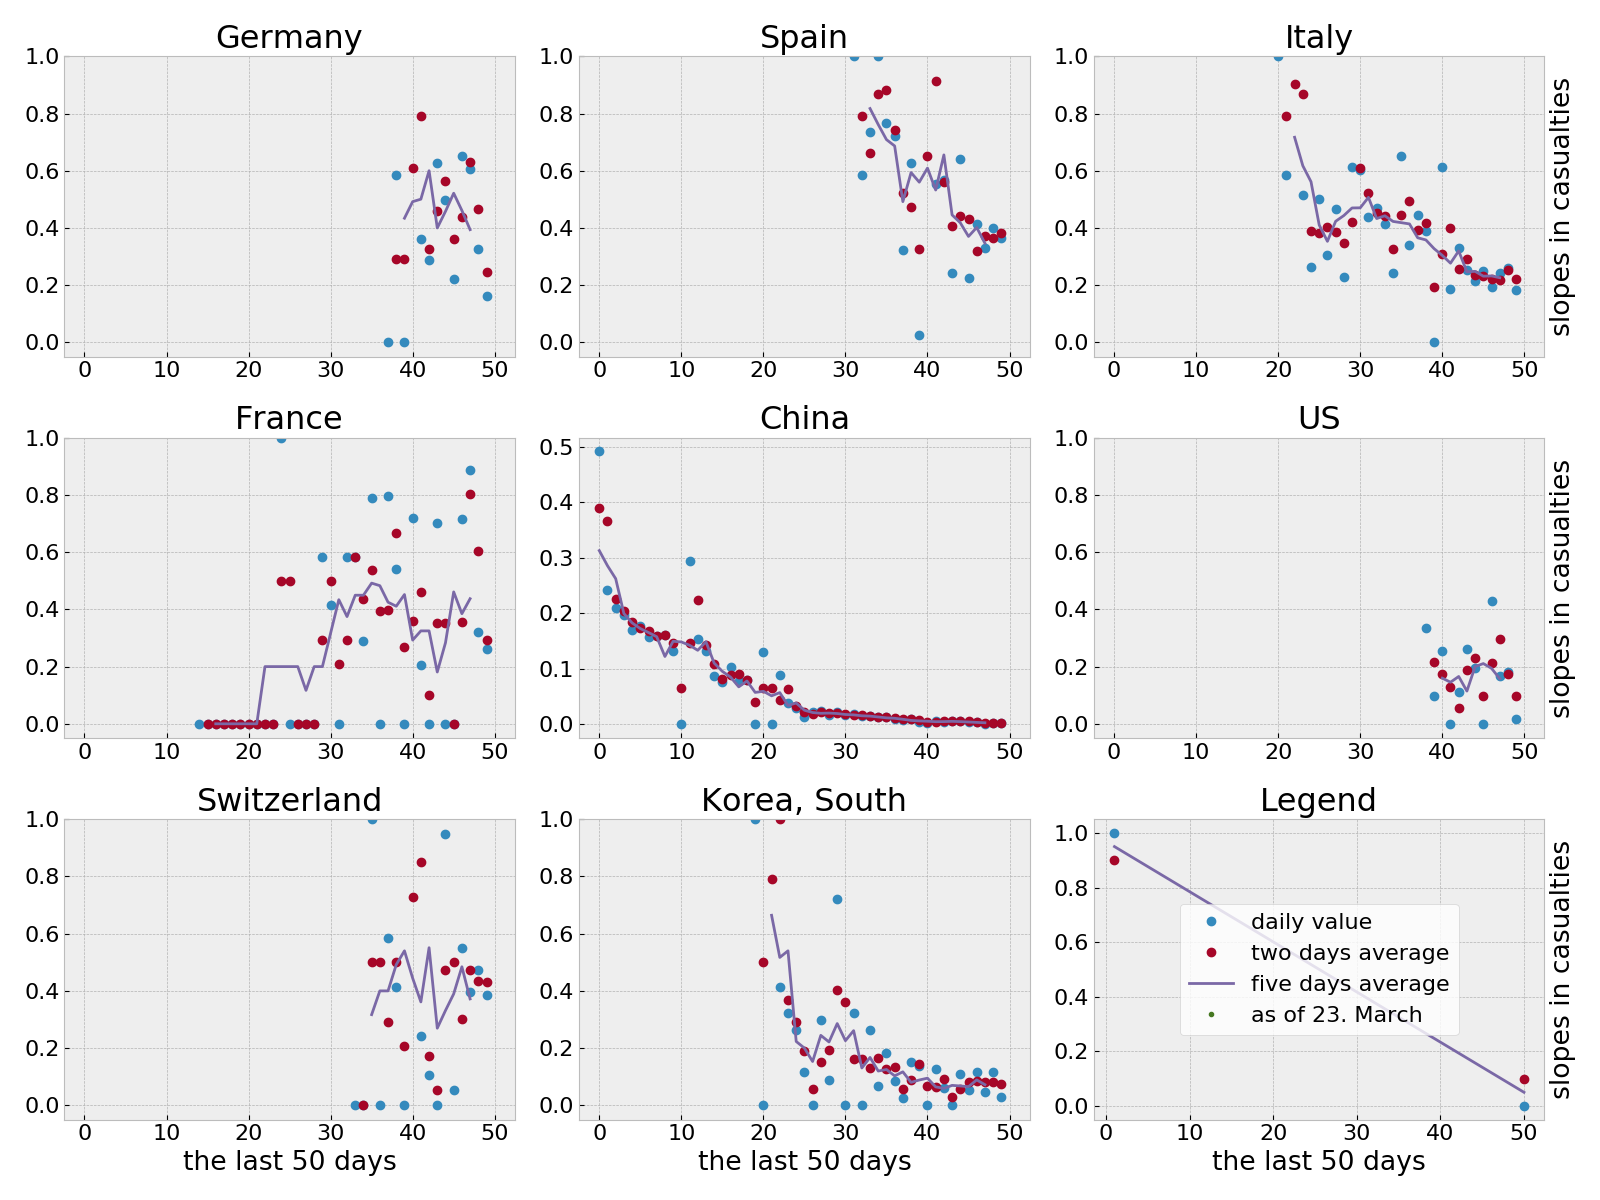
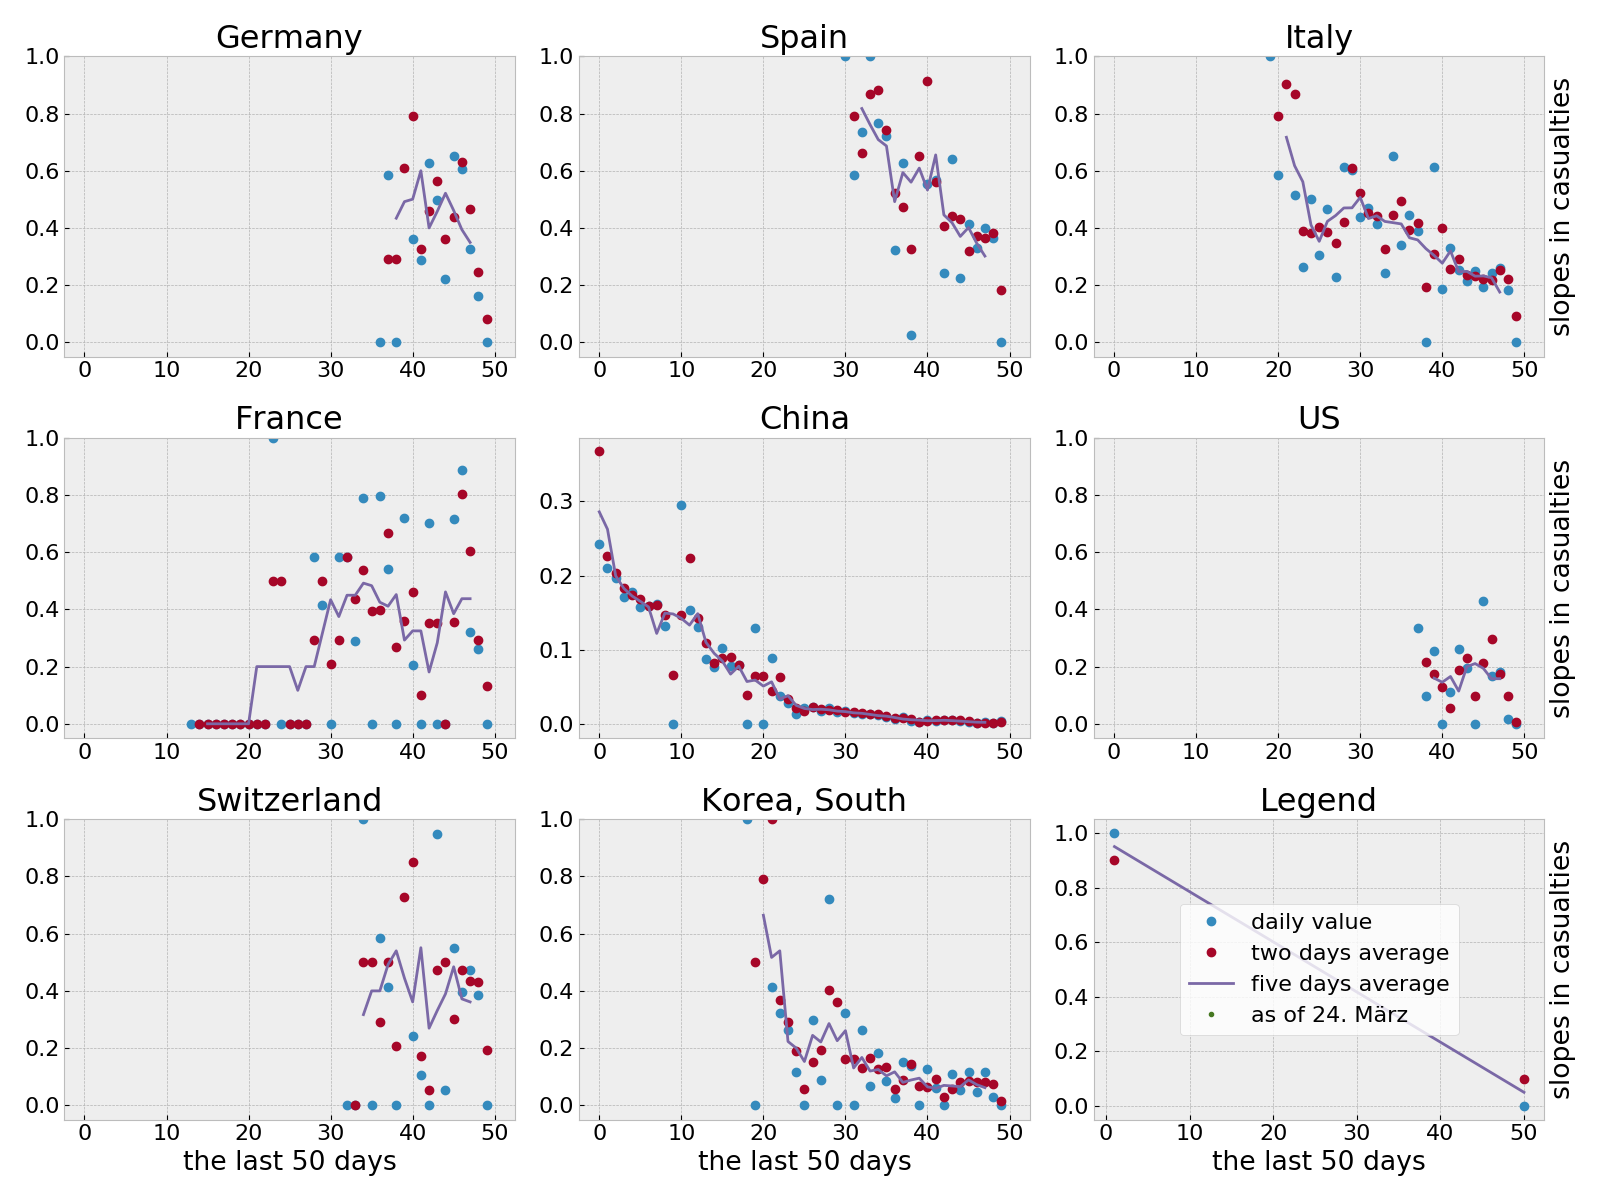
updates

diff --git a/content/post/covid-19-trends/index.md b/content/post/covid-19-trends/index.md
@@ -35,7 +35,7 @@ spreads over the world and makes it [available on
 github](https://github.com/CSSEGISandData/COVID-19). In this analysis, we take
 the data and extract the numbers that describe how the growth of casualties
 develops. Looking at the trends in these numbers, one may deduce how fast or how
-slow the virus is spreading and also compare how the situation is in different
+slow the virus is spreading and also compare how the situation evolves in different
 countries.
 
 Feel free to use the [*python*
@@ -45,6 +45,8 @@ any country that is in the JHU data base.
 
 This post bases on joint efforts and discussions of the [CSC
 group](https://www.mpi-magdeburg.mpg.de/csc) at the MPI Magdeburg.
+
+The numbers in the presented plots are updated automatically[^5].
 
 {{% toc %}}
 
@@ -181,10 +183,11 @@ tools have been applied to (pre-)process the data, like data denoising (except
 that some outliers might not be shown because of the plot margins).
 
 ### Acknowledgements
-The initial work, namely making the data easily available in python, was done by
-Petar Mlinari&#263;. Particular help in terms of improving the presentation
+The initial work, namely making the data easily available in python as well as
+the producing the title picture, was done by Petar Mlinari&#263;. 
+<!--Particular help in terms of improving the presentation
 was provided by [Christian Himpe](https://himpe.science/), [Tim
-Mitchell](http://www.timmitchell.com/), and Peter Benner.
+Mitchell](http://www.timmitchell.com/), and Peter Benner. -->
 
 [^1]: https://de.wikipedia.org/wiki/Verkehrstod#Deutschland
 [^2]: [covidsim.eu](http://covidsim.eu/) with parameters as recorded in the
@@ -200,3 +203,4 @@ Mitchell](http://www.timmitchell.com/), and Peter Benner.
 [^4]: The basis is not too important here. If one takes 2, then a value of 1
   means a doubling. A different basis would only scale the plots but not change the
   qualitative outcomes.
+[^5]: Updates come every second hour during working times.
